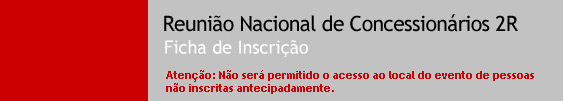
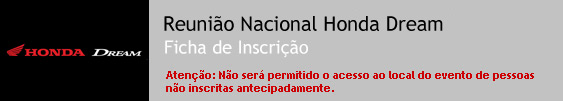
ajustes do evandro com header e nova confirmação

diff --git a/reuniaodream/views/ver_inscricao.php b/reuniaodream/views/ver_inscricao.php
@@ -29,8 +29,7 @@
 	
 	<p class="aviso_voltar">Se for representar mais de uma concessionária, <a href="<?php echo wc_site_uri("concessionaria_agrega/{$inscricao_id}") ?>">cadastre-a aqui</a>.</p>
 	
-	<h1>Sua inscrição para a Reunião Nacional de Concessionários no dia 04 de outubro está confirmada.</h1>
-	<h6>ATENÇÃO: para inscrever-se no Encontro Nacional de Serviços e Peças, <a href="http://www.encontroposvendahda.com.br/" target="_blank">clique aqui</a> ou acesse <a href="http://www.encontroposvendahda.com.br/" target="_blank">http://www.encontroposvendahda.com.br/</a></h6>
+	<h1>Sua inscrição para a Reunião Nacional Honda Dream no 05 de julho de 2012 está confirmada.</h1>
 	
 	<?php if($disponivel): ?>
 		<!-- p class="aviso_voltar">Você pode adicionar mais participantes, <a href="<?php echo wc_site_uri("inscricao/{$inscricao_id}") ?>">cadastre-os aqui</a>.</p -->
